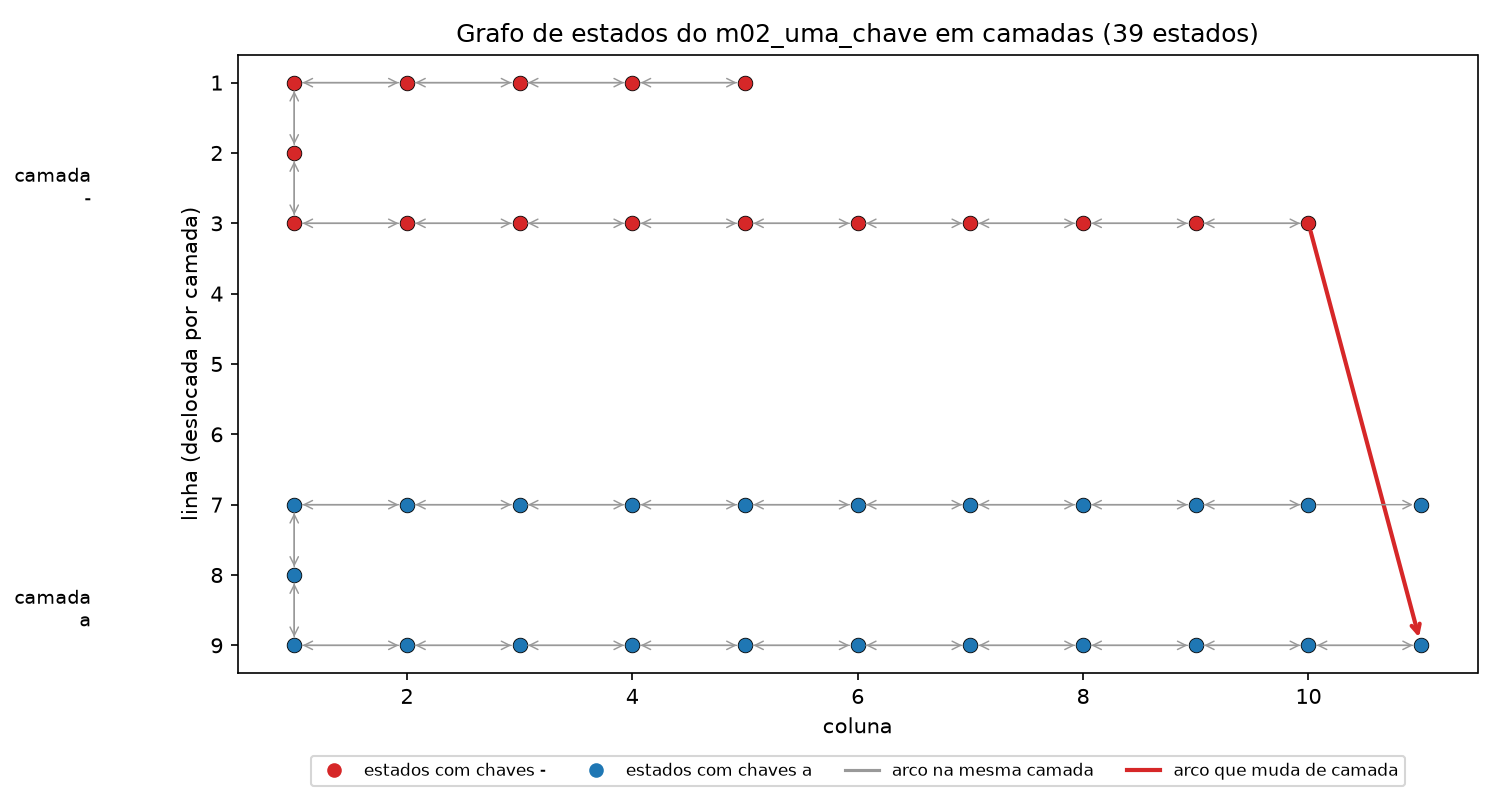
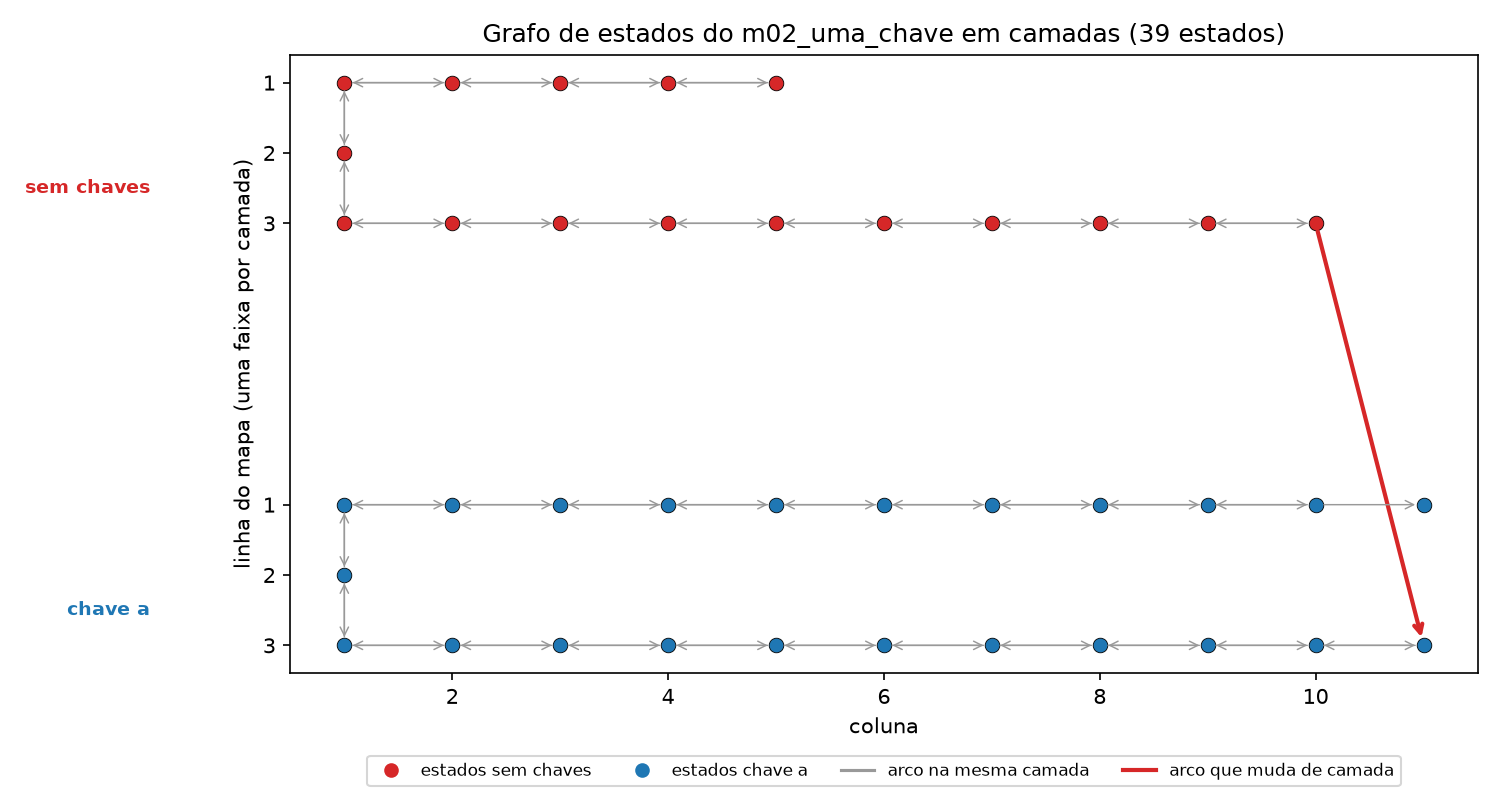
Parte 1 (viz): camadas do m02 com linhas reais e nomes legíveis; heatmap do m08 com escala inteira

diff --git a/src/viz.py b/src/viz.py
@@ -275,12 +275,23 @@ def figura_camadas_m02(mapa: Mapa, destino: Path) -> None:
         x, y = pos(e)
         cor = CORES_CAMADA[camadas.index(e[2]) % len(CORES_CAMADA)]
         ax.plot(x, y, "o", color=cor, markersize=7, markeredgecolor="black", markeredgewidth=0.4)
+    # [IA] Claude – nome legível de cada camada ("sem chaves", "chave a", "chaves ab") no lugar de "camada -"
+    def nome_camada(k: str) -> str:
+        return "sem chaves" if not k else (f"chave {k}" if len(k) == 1 else f"chaves {k}")
+
+    linhas_usadas = {}
+    for e in ge.estados():
+        linhas_usadas.setdefault(e[2], set()).add(e[0])
     for k, d in deslocamento.items():
-        ax.text(-0.8, d + mapa.linhas / 2, f"camada\n{k or '-'}", ha="right", va="center", fontsize=9)
+        ax.text(-0.8, d + mapa.linhas / 2, nome_camada(k), ha="right", va="center", fontsize=9, fontweight="bold",
+                color=CORES_CAMADA[camadas.index(k) % len(CORES_CAMADA)])
+    # [IA] Claude – o eixo y mostra a linha real do mapa em cada camada (antes mostrava a linha deslocada, ex.: 7 em vez de 1)
+    ticks = sorted((r + deslocamento[k], r) for k, rs in linhas_usadas.items() for r in rs)
+    ax.set_yticks([t for t, _ in ticks], [str(r) for _, r in ticks])
     ax.invert_yaxis()
     ax.set_xlabel("coluna")
-    ax.set_ylabel("linha (deslocada por camada)")
-    handles = [Line2D([0], [0], marker="o", lw=0, color=CORES_CAMADA[i], label=f"estados com chaves {k or '-'}")
+    ax.set_ylabel("linha do mapa (uma faixa por camada)")
+    handles = [Line2D([0], [0], marker="o", lw=0, color=CORES_CAMADA[i], label=f"estados {nome_camada(k)}")
                for i, k in enumerate(camadas)]
     handles += [Line2D([0], [0], color="#999999", label="arco na mesma camada"),
                 Line2D([0], [0], color="#d62728", lw=2, label="arco que muda de camada")]
@@ -337,8 +348,13 @@ def figura_heatmap(mapa: Mapa, destino: Path) -> None:
         m[r, c] = k
     fig, ax = plt.subplots(figsize=(14, 6.5))
     ax.set_facecolor("#3a3a3a")
-    im = ax.imshow(m, cmap="viridis", interpolation="nearest")
-    fig.colorbar(im, ax=ax, label="multiplicidade (nº de estados na casa)", shrink=0.8)
+    # [IA] Claude – multiplicidade é contagem: barra de cores em degraus inteiros (1, 2, …, máx), sem 1,5 / 2,5
+    from matplotlib.colors import BoundaryNorm
+    maximo = max(mult.values())
+    cmap = plt.get_cmap("viridis", maximo)
+    norm = BoundaryNorm([v + 0.5 for v in range(maximo + 1)], cmap.N)
+    im = ax.imshow(m, cmap=cmap, norm=norm, interpolation="nearest")
+    fig.colorbar(im, ax=ax, label="multiplicidade (nº de estados na casa)", shrink=0.8, ticks=range(1, maximo + 1))
     ax.set_xlabel("coluna")
     ax.set_ylabel("linha")
     ax.set_title(f"{mapa.nome}: multiplicidade das casas (máx = {max(mult.values())}; paredes em cinza)")
